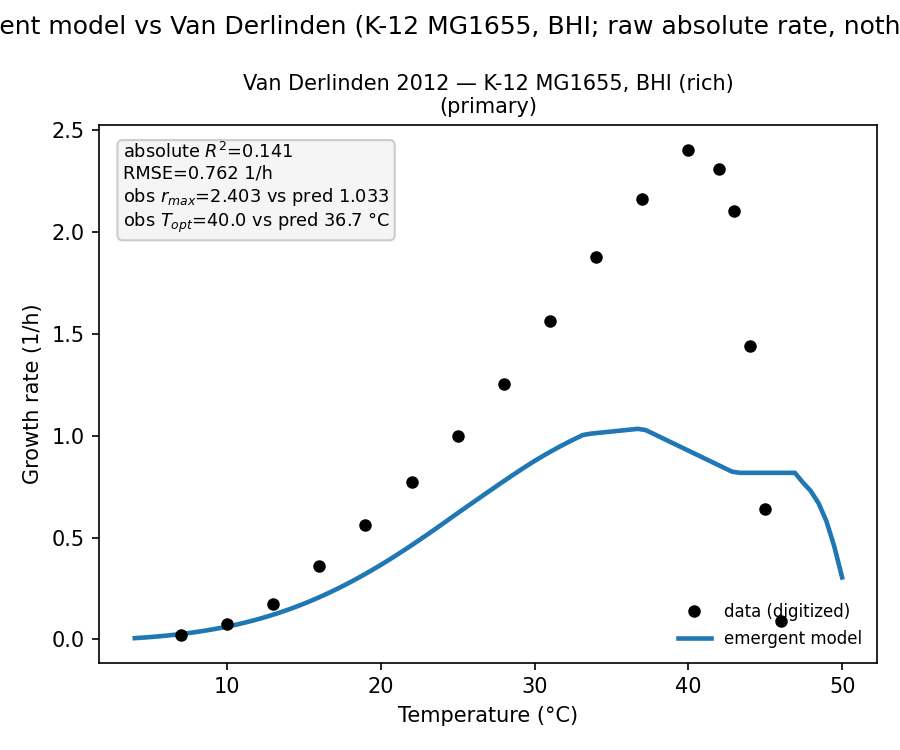
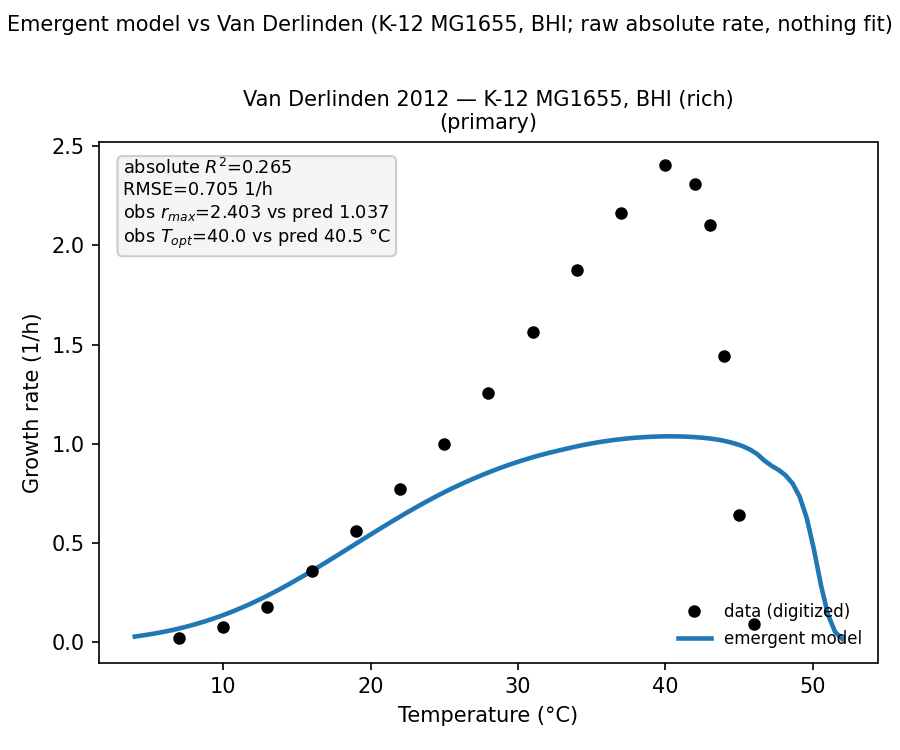
report: refresh emergent validation figure/table on the reconciled + growth-law model (rounded peak; a-priori rich r_max ~1.04 vs 2.40)
Predict the EMERGENT (nothing-fit) Van Derlinden validation on the model configured
exactly as P2 will tune it: reconciled single proteome pool (P1c), coupled biosynthesis-
metabolic growth law ON, T-dependent maintenance restored (rounds the peak). validation.run
now builds the rich BHI/growth-law provider (via _build_pm_rich) with the measured rich
sector fractions and identity magnitude/envelope knobs; dense grid extended so CTmax is a
real crossing, not a grid-edge artifact.

A-priori rich BHI: r_max 1.04 vs observed 2.40 (~2.3-fold under), rounded T_opt 40.5 vs 40,
E_a 0.63 vs 0.64, CTmax ~51 vs 46, absolute R^2 0.27. Report abstract/Layer-4/validation/
conclusion prose updated to these current numbers; fig-valcurves + tbl-val refreshed via
assemble; PDF re-rendered (20 pp, no unresolved crossrefs). Emergent kept distinct from the
later Bayesian tuning.

diff --git a/src/etcgem/validation.py b/src/etcgem/validation.py
@@ -103,21 +103,38 @@ def _fit_stats(obs, pred):
     return r2, rmse
 
 
-def _predict(pm, spec, strain, data_temps, extra_aa=None):
+def _predict(pm, spec, strain, data_temps, extra_aa=None, pert=None, set_med=True):
     """Return (pred_at_data_temps, dense_T, dense_growth, descriptors)."""
-    _set_medium(pm, spec, strain, extra_aa)
-    pred = compute_tpc(pm, data_temps, Perturbation()).growth
+    if set_med:
+        _set_medium(pm, spec, strain, extra_aa)
+    pert = pert or Perturbation()
+    pred = compute_tpc(pm, data_temps, pert).growth
     dense = np.linspace(min(5.0, float(min(data_temps)) - 3),
-                        max(50.0, float(max(data_temps)) + 3), 91)
-    dg = compute_tpc(pm, dense, Perturbation()).growth
+                        max(52.0, float(max(data_temps)) + 6), 101)
+    dg = compute_tpc(pm, dense, pert).growth
     desc = TPC(dense, dg).descriptors(0.05)
     return pred, dense, dg, desc
 
 
 # ---------------------------------------------------------------------------
-def _score_curve(pm, spec, strain):
+def _build_emergent_rich(strain):
+    """Provider configured EXACTLY as the P2 tuning will use it: rich BHI,
+    reconciled single proteome pool (P1c), coupled growth law ON (P1b), T-dependent
+    maintenance restored. The emergent prediction sets the measured rich sector
+    fractions and identity magnitude/envelope knobs."""
+    from .calibration_multi import _build_pm_rich
+    pm = _build_pm_rich(strain)   # BHI, growth law ON, static rich alloc, reconciled
+    pert = Perturbation(f_metab=0.280, f_maint=0.360)   # measured rich (LB) sectors; else identity
+    return pm, pert
+
+
+def _score_curve(pm, spec, strain, growth_law_rich=False):
     cv = load_curve(strain, spec)
-    pred, dense, dg, desc = _predict(pm, spec, strain, cv["temps_C"])
+    if growth_law_rich and spec.medium == "BHI":
+        pmr, pert = _build_emergent_rich(strain)
+        pred, dense, dg, desc = _predict(pmr, spec, strain, cv["temps_C"], pert=pert, set_med=False)
+    else:
+        pred, dense, dg, desc = _predict(pm, spec, strain, cv["temps_C"])
     r2, rmse = _fit_stats(cv["rate"], pred)
     obs_desc = TPC(cv["temps_C"], cv["rate"]).descriptors(0.05)
     res = {
@@ -137,7 +154,11 @@ def _score_curve(pm, spec, strain):
     return res
 
 
-def run(strain: str, out_dir: str, include_secondary: bool = True, **_ignore) -> Dict:
+def run(strain: str, out_dir: str, include_secondary: bool = True,
+        growth_law_rich: bool = True, **_ignore) -> Dict:
+    """Emergent (nothing-fit) validation. ``growth_law_rich`` (default True) predicts
+    the rich BHI curve on the model configured as it will be tuned: reconciled single
+    proteome pool + coupled growth law ON + T-dependent maintenance (rounded peak)."""
     from .config import resolve, build_provider
     pm = build_provider(resolve(strain))
     try:
@@ -149,7 +170,7 @@ def run(strain: str, out_dir: str, include_secondary: bool = True, **_ignore) ->
     results, rows = {}, []
     specs = list(CURVES) + (list(SECONDARY) if include_secondary else [])
     for spec in specs:
-        res = _score_curve(pm, spec, strain)
+        res = _score_curve(pm, spec, strain, growth_law_rich=growth_law_rich)
         res["role"] = "primary" if spec in CURVES else "secondary_crosscheck"
         results[spec.key] = res
         rows.append({"curve": spec.key, "role": res["role"],
@@ -201,8 +222,9 @@ def _plot_curves(results, out_dir):
                 transform=ax.transAxes, va="top", fontsize=8.5,
                 bbox=dict(boxstyle="round", fc="0.96", ec="0.8"))
         ax.legend(frameon=False, fontsize=8, loc="lower right")
-    fig.suptitle("Emergent model vs Van Derlinden (K-12 MG1655, BHI; raw absolute rate, nothing fit)")
-    fig.tight_layout()
+    fig.suptitle("Emergent model vs Van Derlinden (K-12 MG1655, BHI; raw absolute rate, nothing fit)",
+                 fontsize=10)
+    fig.tight_layout(rect=(0, 0, 1, 0.97))
     p = os.path.join(out_dir, "validation_trusted_curves.png")
     fig.savefig(p, dpi=150); plt.close(fig)
     return p